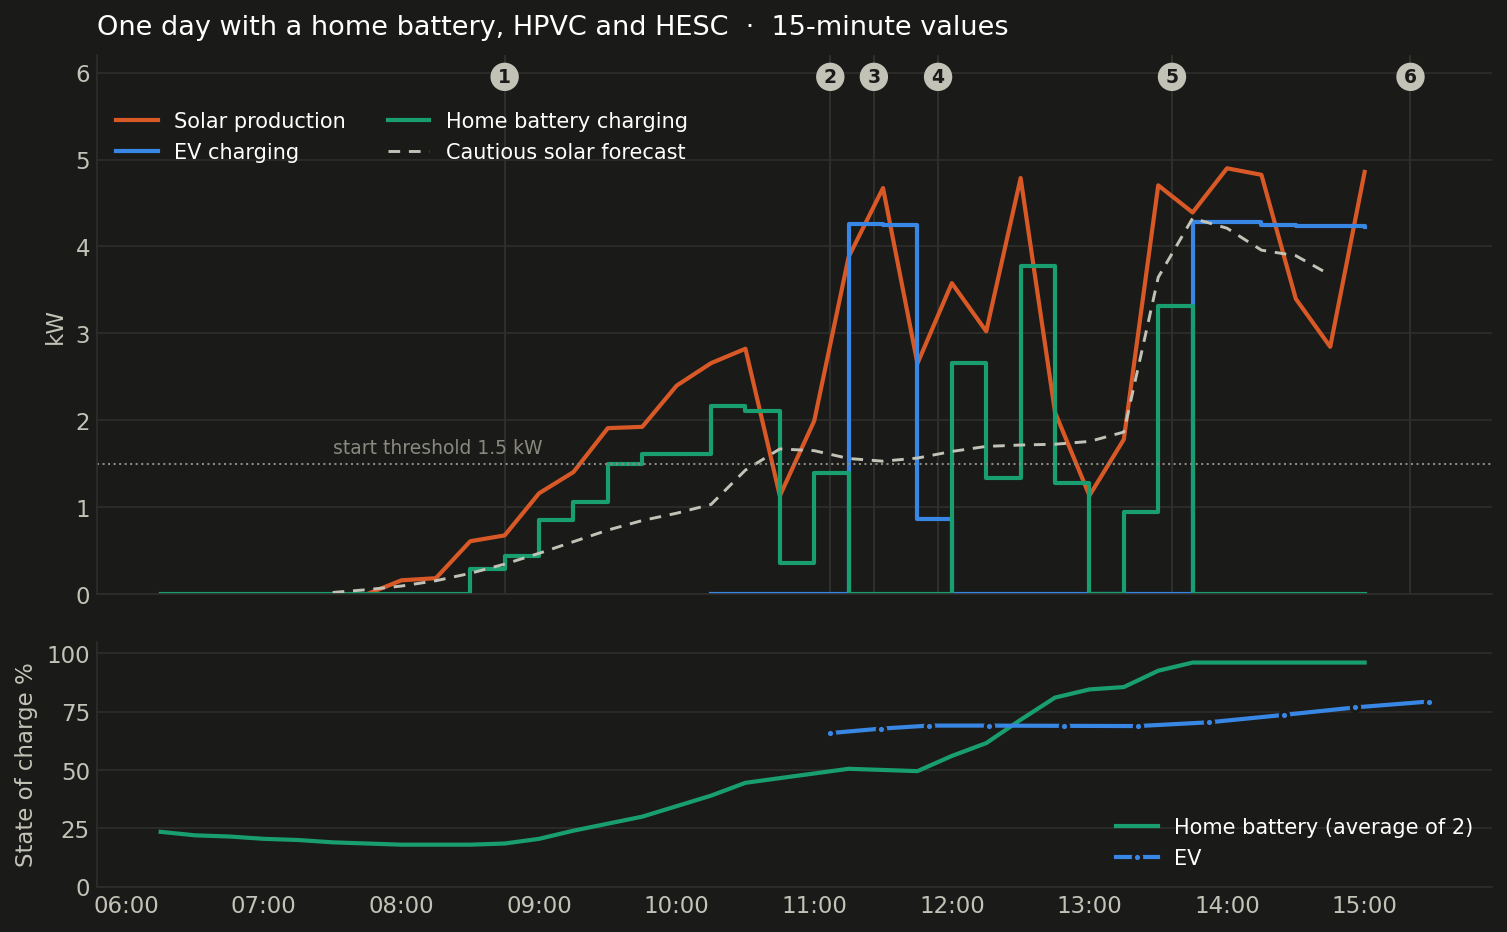
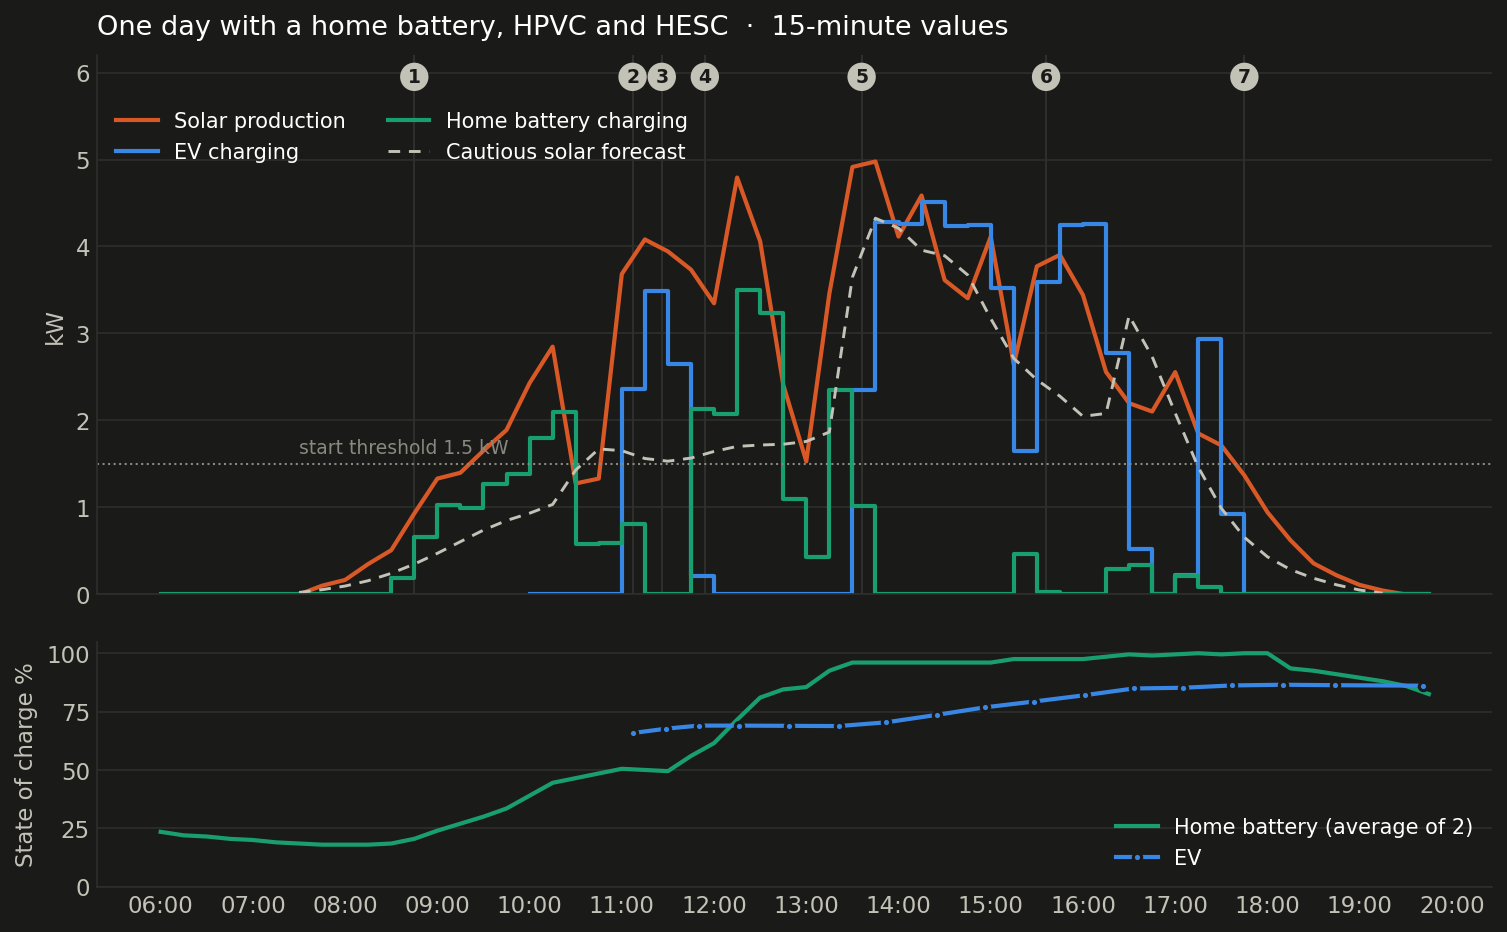
docs: complete 'A day in practice' with evening, day totals and final chart

diff --git a/docs/06-a-day-in-practice.md b/docs/06-a-day-in-practice.md
@@ -82,9 +82,9 @@ This is the safety design at work: **HPVC decides**, HESC only asks. HESC never 
 
 At 13:36 the first battery was at 100% and the second one stopped charging at 92%. The sun came back strongly (4.7 kW, cautious forecast 4.3 kW). The surplus was now large enough on all three phases, and the Wallbox **started on Eco by itself**. No release was needed; HESC saw it and logged *EV is charging*.
 
-The EV charged at about 4.2 kW for an hour and a half, from 70% to 79%.
+The EV charged at about 4.2 kW for an hour and a half, from 70% to 79%. The second battery was topped up later in the afternoon and reached 100% around 17:00.
 
-### 6 · Afternoon: clouds, Eco pauses, the battery tops up (15:00 onwards)
+### 6 · Afternoon: clouds, Eco pauses, the battery tops up (15:00 – 17:00)
 
 After 15:00 clouds and a lower sun brought production down to about 2 kW. Eco paused at 15:03, resumed at 15:08, stopped at 15:20 and started again later. The second battery took the surplus again. HESC went back to watching the forecast.
 
@@ -92,12 +92,27 @@ After 15:00 clouds and a lower sun brought production down to about 2 kW. Eco pa
 
 **Enough surplus, still no start (16:24).** At 16:33 the house exported 1.46 kW in total, but per phase that was 223 W, 635 W and 590 W. One phase was below the charger's minimum, so Eco did not start. The total was enough; the phase was not. Again: the charger's own rule, not HESC.
 
-<!-- EVENING: filled in after sunset -->
+### 7 · Evening: the sun fades, the batteries take over the house (17:00 – 19:45)
+
+From 17:00 production dropped below 2.5 kW. Eco tried three more times (16:38, 17:14 and 17:38) and paused again after a few minutes each time, when the surplus on one of the phases fell away. After 17:45 the charger simply waited. The cautious forecast dropped below the hold threshold of 1 200 W around 17:30.
+
+From about 18:15 the home batteries started to cover the house, as intended. After sunset HESC reported *Night*. The EV ended the day at 86%, twenty points more than in the morning.
+
+### The day in numbers
+
+| | |
+|---|---|
+| Solar production | 27.8 kWh |
+| Cautious forecast for the whole day | 19.0 kWh |
+| EV charged | 14.3 kWh in 8 sessions, of which 9.3 kWh (65%) from the sun |
+| EV battery | 66% → 86% |
+| Home batteries | about 20% at dawn → 100% (first at 13:30, second around 17:00) |
 
 ## What this day shows
 
 - **The order of priority is clear and nobody fights.** The home battery first (HBC, confirmed by HPVC), then the EV. HESC asks, HPVC decides.
-- **The cautious forecast is a safe start signal.** It was below the real production almost all day, sometimes by more than 2 kW. On this day the start threshold was not what kept the EV waiting: the battery priority was.
+- **The cautious forecast is a safe start signal.** In 34 of the 43 daylight quarters the panels produced at least as much as the cautious forecast, typically 1.8 times as much. In the 26 quarters where the cautious forecast was above the start threshold of 1.5 kW, the panels made less than 1.5 kW only once (10:45, a passing cloud). And between 11:15 and 15:45 HPVC was limiting the panels, so the real potential was even higher. On this day the start threshold was not what kept the EV waiting: the battery priority was.
+- **A cloudy day costs some grid power.** Eco cannot charge below about 4.1 kW. When a cloud passes, the rest comes from the grid until the charger pauses. That is why 65% of the EV energy came from the sun, not 100%.
 - **The charger has its own control, and HESC leaves it alone.** Eco looks at the surplus per phase, not at the total: at 16:33 there was 1.46 kW surplus in total, but one phase had only 223 W, so it did not start. A washing machine or a cloud is enough for a pause. HESC does not change this behaviour; it only makes sure HPVC does not take the surplus away while the EV could use it.
 - **A zero price is an opportunity for the charge plan.** The plan picks the cheapest known quarters, so a free quarter can be used days before the deadline. With *take cheap chances* on, it also uses every quarter below your own price limit.
 - **HESC keeps a record of everything.** Sessions, forecast vs actual per quarter, every request and its outcome. That is what the report and the setting advice are built on.
@@ -121,6 +136,6 @@ In short: standalone HESC is a smart companion for solar charging and for chargi
 
 ## Where the numbers come from
 
-- Solar, EV and battery power and battery state of charge: Home Assistant history (15-minute values).
+- Solar, EV and battery power and battery state of charge: Home Assistant history (15-minute averages).
 - Forecast, actual PV, irradiance, sessions and requests: HESC's own history file (`hesc-data/history.jsonl`).
 - EV state of charge: read from the car integration during the day.
